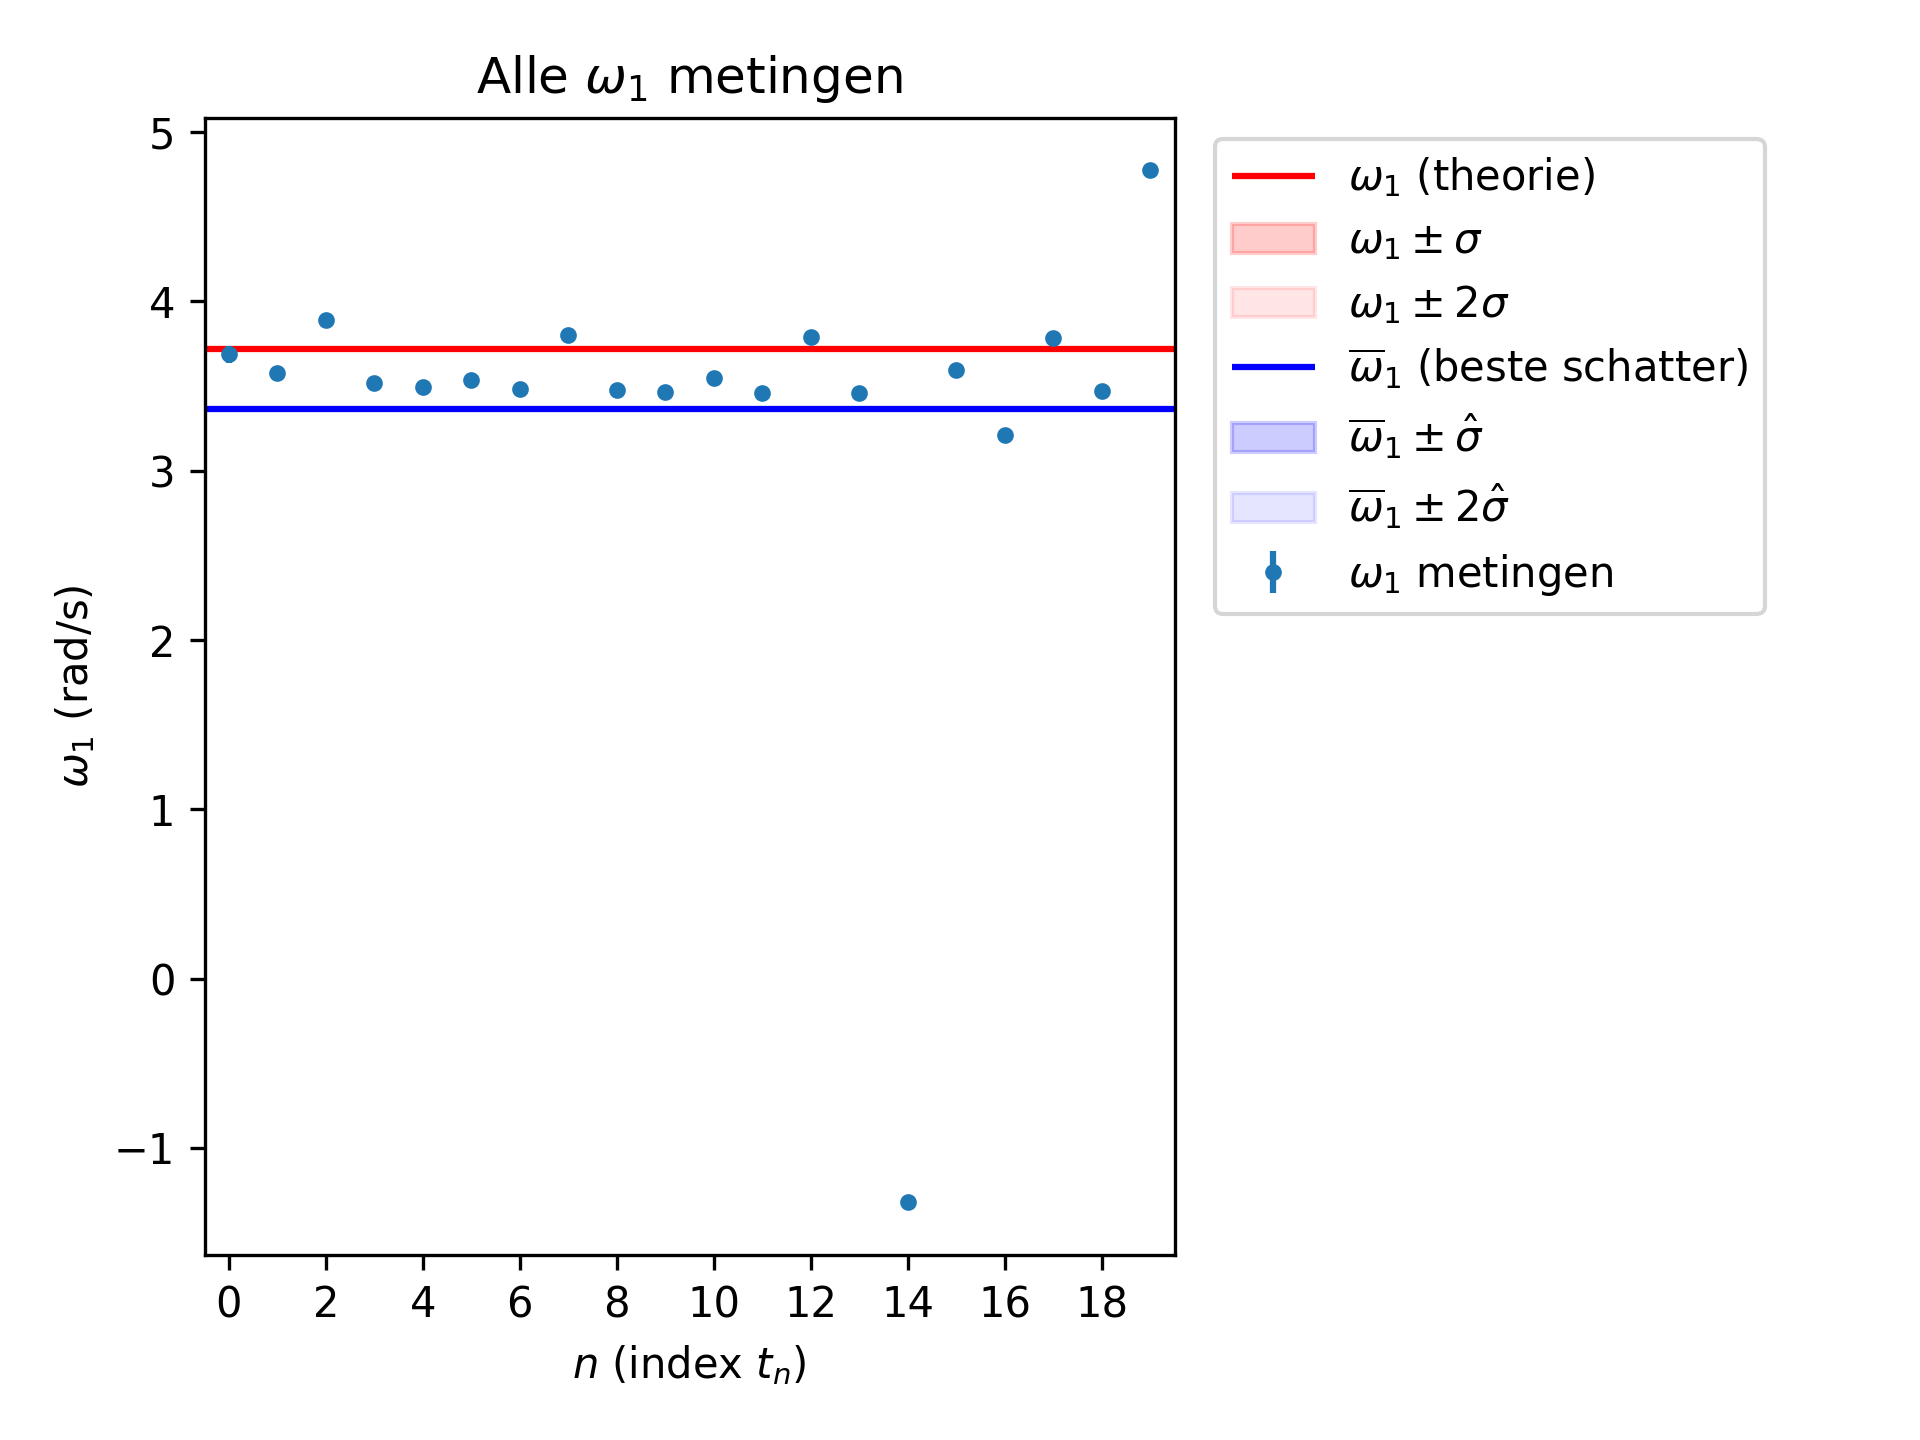
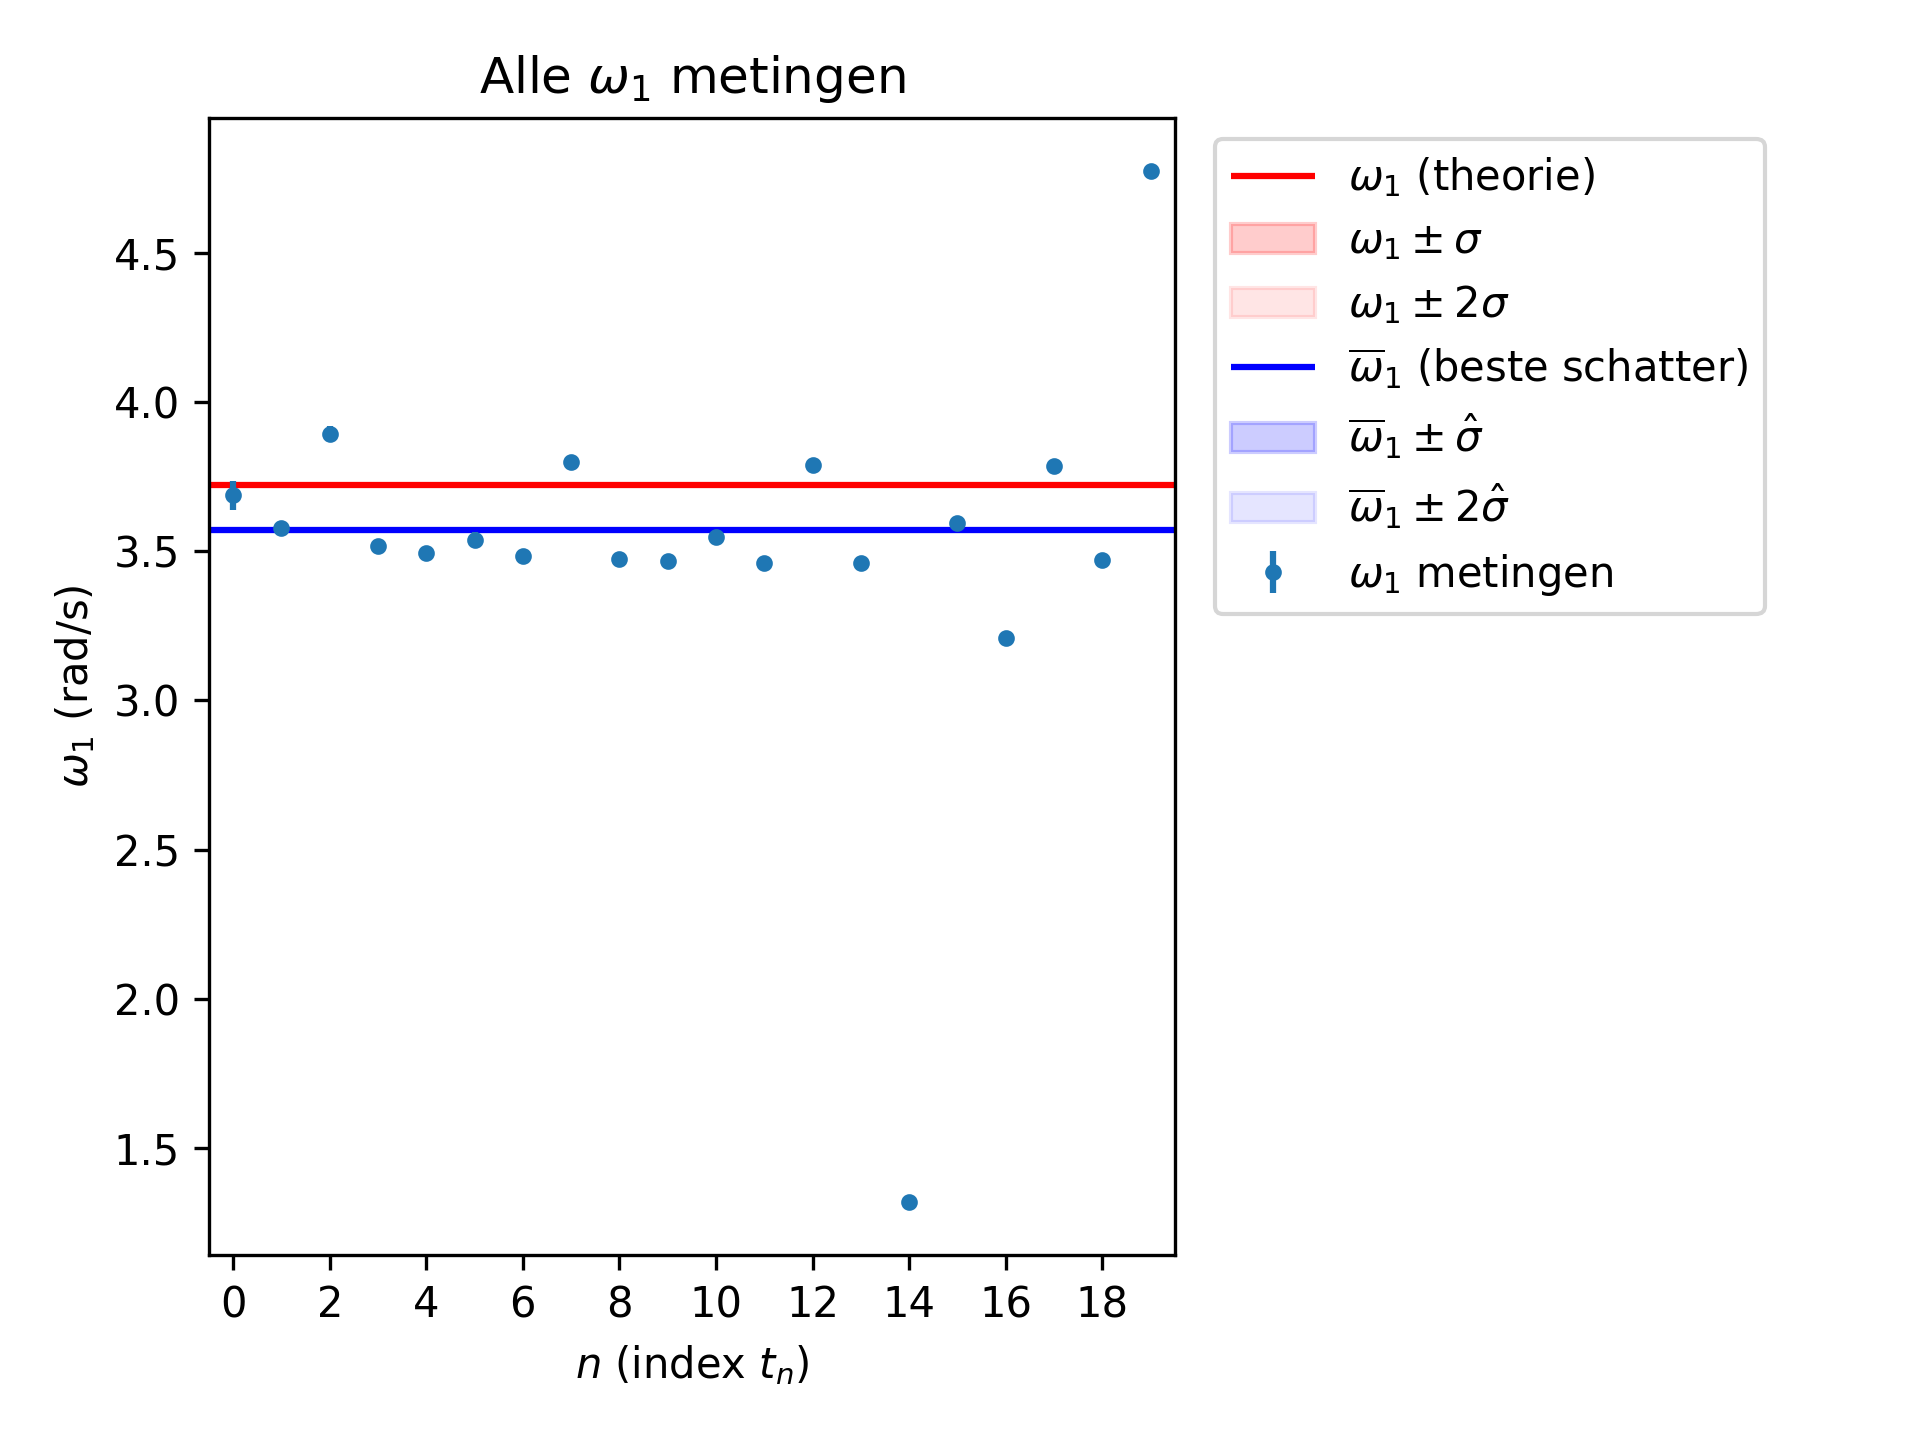
kleine fix: negatieve w1, nu absolute waarde

diff --git a/data-verwerking.py b/data-verwerking.py
@@ -267,7 +267,7 @@ def plot_all_w1s(w1s, best_guess, show_outliers=False, outliers=[], outlier_indi
 def collect_w1s(fit_params):
     w1_noms = fit_params[:,0]
     w1_stds = fit_params[:,1]
-    return unp.uarray(w1_noms, w1_stds)
+    return unp.uarray(np.abs(w1_noms), w1_stds)
 
 # algemene functie om de gewogen beste schatter voor een dataset te krijgen
 def get_best_weighted_guess(data):
